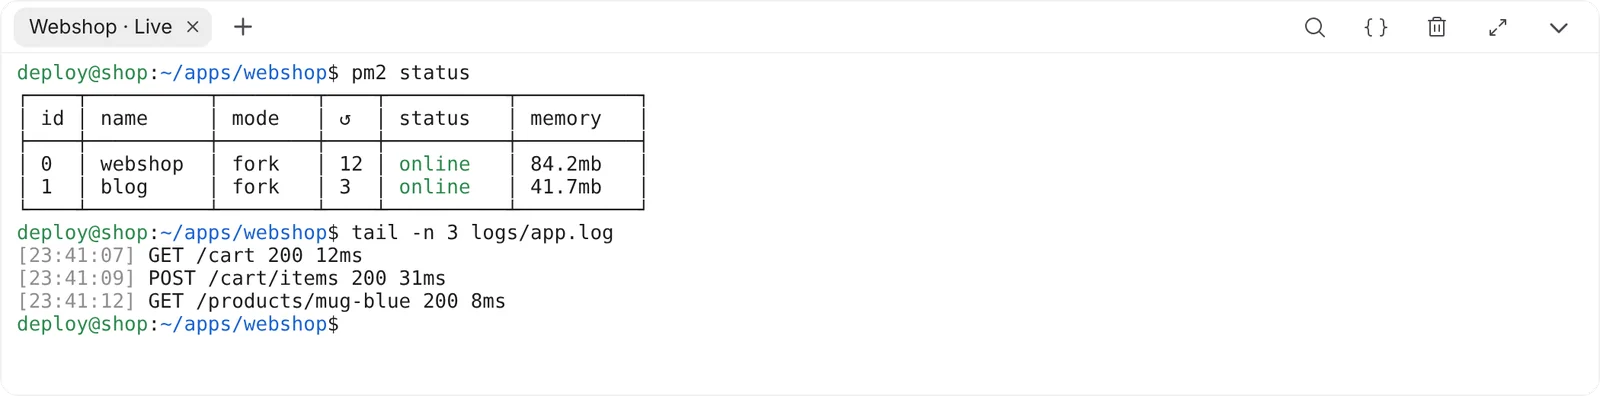
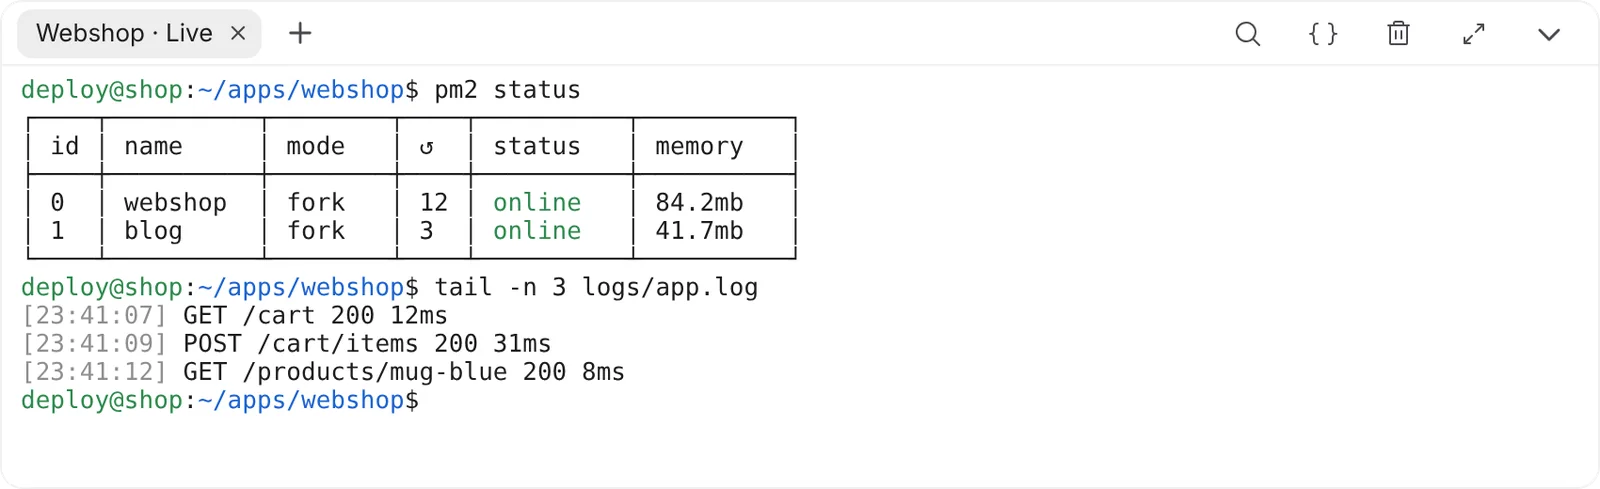
Website: terminal shot from a narrower window, larger text on the page

diff --git a/website/index.html b/website/index.html
@@ -534,7 +534,7 @@ footer a { color: var(--muted); }
             <li><span class="de">Tunnel für Datenbanken und Dienste</span><span class="en">Tunnels for databases and services</span></li>
           </ul>
         </div>
-        <figure class="shot zoomable" data-view="terminal" data-crop="1"><div class="shot-frame" style="--ar: 1600 / 396"><img class="shot-base" alt="" loading="lazy" width="1600" height="396"><img class="shot-over" alt="" loading="lazy" width="1600" height="396"><span class="shot-tag"></span><button type="button" class="shot-zoom" aria-label="Vergrößern"><svg viewBox="0 0 20 20" fill="none" stroke="currentColor" stroke-width="1.8" stroke-linecap="round" aria-hidden="true"><circle cx="8.5" cy="8.5" r="5.5"/><path d="M12.6 12.6 17 17M8.5 6v5M6 8.5h5"/></svg></button></div></figure>
+        <figure class="shot zoomable" data-view="terminal" data-crop="1"><div class="shot-frame" style="--ar: 1600 / 489"><img class="shot-base" alt="" loading="lazy" width="1600" height="489"><img class="shot-over" alt="" loading="lazy" width="1600" height="489"><span class="shot-tag"></span><button type="button" class="shot-zoom" aria-label="Vergrößern"><svg viewBox="0 0 20 20" fill="none" stroke="currentColor" stroke-width="1.8" stroke-linecap="round" aria-hidden="true"><circle cx="8.5" cy="8.5" r="5.5"/><path d="M12.6 12.6 17 17M8.5 6v5M6 8.5h5"/></svg></button></div></figure>
       </article>
 
       <article class="feature">
